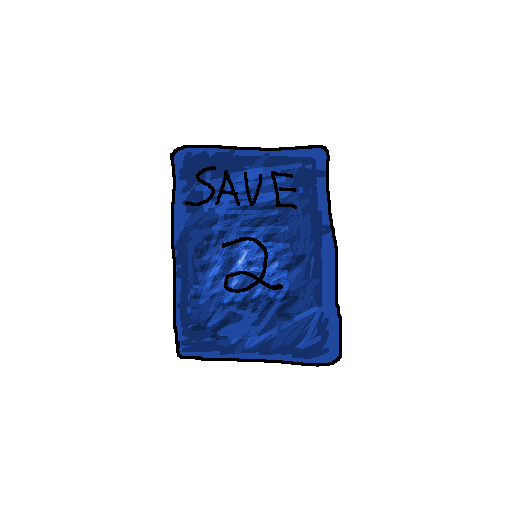
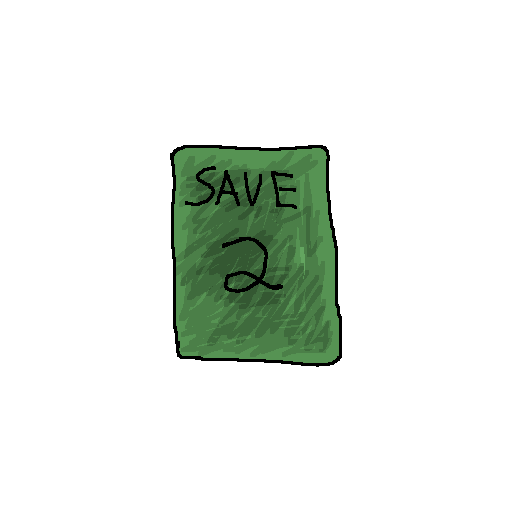
save room is done minus the actual swapping slot logic

Changed region(s): [[0.3125, 0.2812, 0.6875, 0.7188]]

diff --git a/website/src/pages/mini/garden/garden.js b/website/src/pages/mini/garden/garden.js
@@ -477,6 +477,9 @@ class Clickbox {
         this.onclick = onclick;
         this.active = true;
         this.cursor = "pointer"
+
+        this.extraData = {
+        }
     }
 
     getBounds(bounds) {
@@ -677,6 +680,17 @@ const ALL_DIALOGUE = {
                 ],
                 "fns": { "onEnd": (eng) => { eng.spriteMap.stopgo.anim.resetAndChangeAnim("idle") } }
             },
+            {
+                "lines": [
+                    {
+                        "text": "you know i'm still the same person in all of the timelines, right?"
+                    },
+                    {
+                        "text": "don't think you can hide what you did that one time..."
+                    }
+                ],
+                "fns": { "onEnd": (eng) => { eng.spriteMap.stopgo.anim.resetAndChangeAnim("idle") } }
+            },
         ]
     } 
 }
@@ -766,6 +780,58 @@ const sceneData = {
             new Clickbox(new Rect2D(Vector.two(0.45, 0.45), 0.1, 0.25), (eng) => { 
                 eng.spriteMap.stopgo.anim.changeAnim("talk"); 
                 eng.openRandomDialogueFromList(ALL_DIALOGUE.stopgo.idle)
+            }),
+
+            new Clickbox(new Rect2D(Vector.two(0.15, 0.1), 0.2, 0.28), (eng) => { 
+                eng.spriteMap.stopgo.anim.changeAnim("talk"); 
+                eng.openDialogue({
+                    "lines": [
+                        {
+                            "text": "well now, that's certainly a choice"
+                        },
+                        {
+                            "text": `slot 1, is it?`
+                        },
+                        {
+                            "text": "well now you know what they say about swapping timelines...."
+                        }
+                    ],
+                    "fns": { "onEnd": (eng) => { eng.spriteMap.stopgo.anim.resetAndChangeAnim("idle") } }
+                })
+            }),
+            new Clickbox(new Rect2D(Vector.two(0.4, 0.1), 0.2, 0.28), (eng) => { 
+                eng.spriteMap.stopgo.anim.changeAnim("talk"); 
+                eng.openDialogue({
+                    "lines": [
+                        {
+                            "text": "good pick, lad"
+                        },
+                        {
+                            "text": `slot 2 it is then?`
+                        },
+                        {
+                            "text": "well, off we go!"
+                        }
+                    ],
+                    "fns": { "onEnd": (eng) => { eng.spriteMap.stopgo.anim.resetAndChangeAnim("idle") } }
+                })
+            }),
+            new Clickbox(new Rect2D(Vector.two(0.65, 0.1), 0.2, 0.28), (eng) => { 
+                eng.spriteMap.stopgo.anim.changeAnim("talk"); 
+                eng.openDialogue({
+                    "lines": [
+                        {
+                            "text": "you actually chose slot 3?"
+                        },
+                        {
+                            "text": `why would you need 3 slots?`
+                        },
+                        {
+                            "text": "3's an unlucky number, you know..."
+                        }
+                    ],
+                    "fns": { "onEnd": (eng) => { eng.spriteMap.stopgo.anim.resetAndChangeAnim("idle") } }
+                })
             }),
         ],
         "movement": {
@@ -867,7 +933,8 @@ class Engine {
                 "last_dialogue": null,
                 "timer": 0,
                 speed: 25 // ms
-            }
+            },
+            "performance": false
         }
 
         this.spriteMap = {}
@@ -1203,11 +1270,37 @@ class Engine {
         }
 
         let stopgo_animator = new Animator();
-        stopgo_animator.addAnim(new Animation(this.loader.imageSet("garden-art-39"), -1), "idle");
-        stopgo_animator.addAnim(new Animation(this.loader.imageSet("garden-art-38", "garden-art-36"), 1), "talk");
+        stopgo_animator.addAnim(new Animation(this.loader.imageSet("garden-art-34"), -1), "idle");
+
+        stopgo_animator.addAnim(new Animation(this.loader.imageSet("garden-art-35"), -1), "red");
+        sceneData.saves.clickboxes[1].extraData = { "stopgoColor": "red" }
+        stopgo_animator.addAnim(new Animation(this.loader.imageSet("garden-art-37"), -1), "green");
+        sceneData.saves.clickboxes[2].extraData = { "stopgoColor": "green" }
+        stopgo_animator.addAnim(new Animation(this.loader.imageSet("garden-art-39"), -1), "blue");
+        sceneData.saves.clickboxes[3].extraData = { "stopgoColor": "blue" }
+
+        stopgo_animator.addAnim(new Animation(this.loader.imageSet("garden-art-36", "garden-art-38", "garden-art-40"), 0.8), "talk");
         const stopgo = this.createSprite(new Rect2D(Vector.two(0, 0.07), 1, 1), stopgo_animator, "saves");
         this.spriteMap.stopgo = stopgo;
         stopgo_animator.changeAnim("idle")
+
+        const setupSave = (art, pos, amp, speed) => {
+            let anim = new Animator();
+            anim.addAnim(new Animation(this.loader.imageSet(`garden-art-${art}`), -1), "idle");
+            const save = this.createSprite(new Rect2D(pos, 0.5, 0.5), anim, "saves");
+            anim.changeAnim("idle");
+
+            save.extraData.time = 0;
+            save.extraData.updateFn = (delta) => {
+                save.extraData.time += delta * 0.1;
+
+                save.rect.pos.y = Math.sin(save.extraData.time * speed) * amp;
+            };
+        }
+
+        setupSave(30, Vector.two(0, 0),    0.02, 30);
+        setupSave(31, Vector.two(0.25, 0), 0.013, 40);
+        setupSave(32, Vector.two(0.5, 0),  0.017, 25);
     }
 
     createSprite(rect, animator, scene) {
@@ -1426,7 +1519,7 @@ class Engine {
             ctx.font = `30px Arial`;
             const line = this.data.dialogue.data.lines[this.data.dialogue.line].text;
             const characters = line.slice(0, this.data.dialogue.timer / this.data.dialogue.speed * 1000)
-            this.drawTextWrap(characters, bb.x+60, ctx.canvas.height-190, bb.w-90, 40);
+            this.drawTextWrap(characters, bb.x+60, ctx.canvas.height-190, bb.w-100, 40);
         }
 
         if(this.data.scenetime == 6) ctx.filter = `brightness(50%)`
@@ -1541,7 +1634,9 @@ class Engine {
     
         if(scene !== this.data.scenetime) this.setSceneTime(scene);
 
-        this.allSprites.filter( s => s.scene == this.data.scene ).forEach(s => s.anim.update(delta));
+        this.allSprites.filter( s => s.scene == this.data.scene ).forEach(s => {
+            s.anim.update(delta)
+            });
         this.allSprites.forEach(s => s.extraData.updateFn(delta))
 
         this.data.cloudTimer -= delta;
@@ -1568,12 +1663,18 @@ class Engine {
             if((this.mouse.pos.y-bounds.y) / bounds.h < 0.65) document.body.style.cursor = "none"
         }
         if(!this.data.hands.active) {
+            const d = {};
             sceneData[this.data.scene].clickboxes.concat(this.globalClickboxes).filter(c => c.active).forEach(c => {
                 const bb = c.getBounds(bounds);
                 if(Maths.rectRect(this.mouse.pos.x-5, this.mouse.pos.y-5, this.mouse.w, this.mouse.h, bb.x, bb.y, bb.w, bb.h)) {
                     document.body.style.cursor = c.cursor;
+                    if(c.extraData.stopgoColor != null && d.stopgo == null) {
+                        this.spriteMap.stopgo.anim.resetAndChangeAnim(c.extraData.stopgoColor)
+                        d.stopgo = true;
+                    }
                 }
             });
+            if(!d.stopgo) this.spriteMap.stopgo.anim.resetAndChangeAnim("idle")
         } else {
             this.globalClickboxes.filter(c => c.active).forEach(c => {
                 const bb = c.getBounds(bounds);
